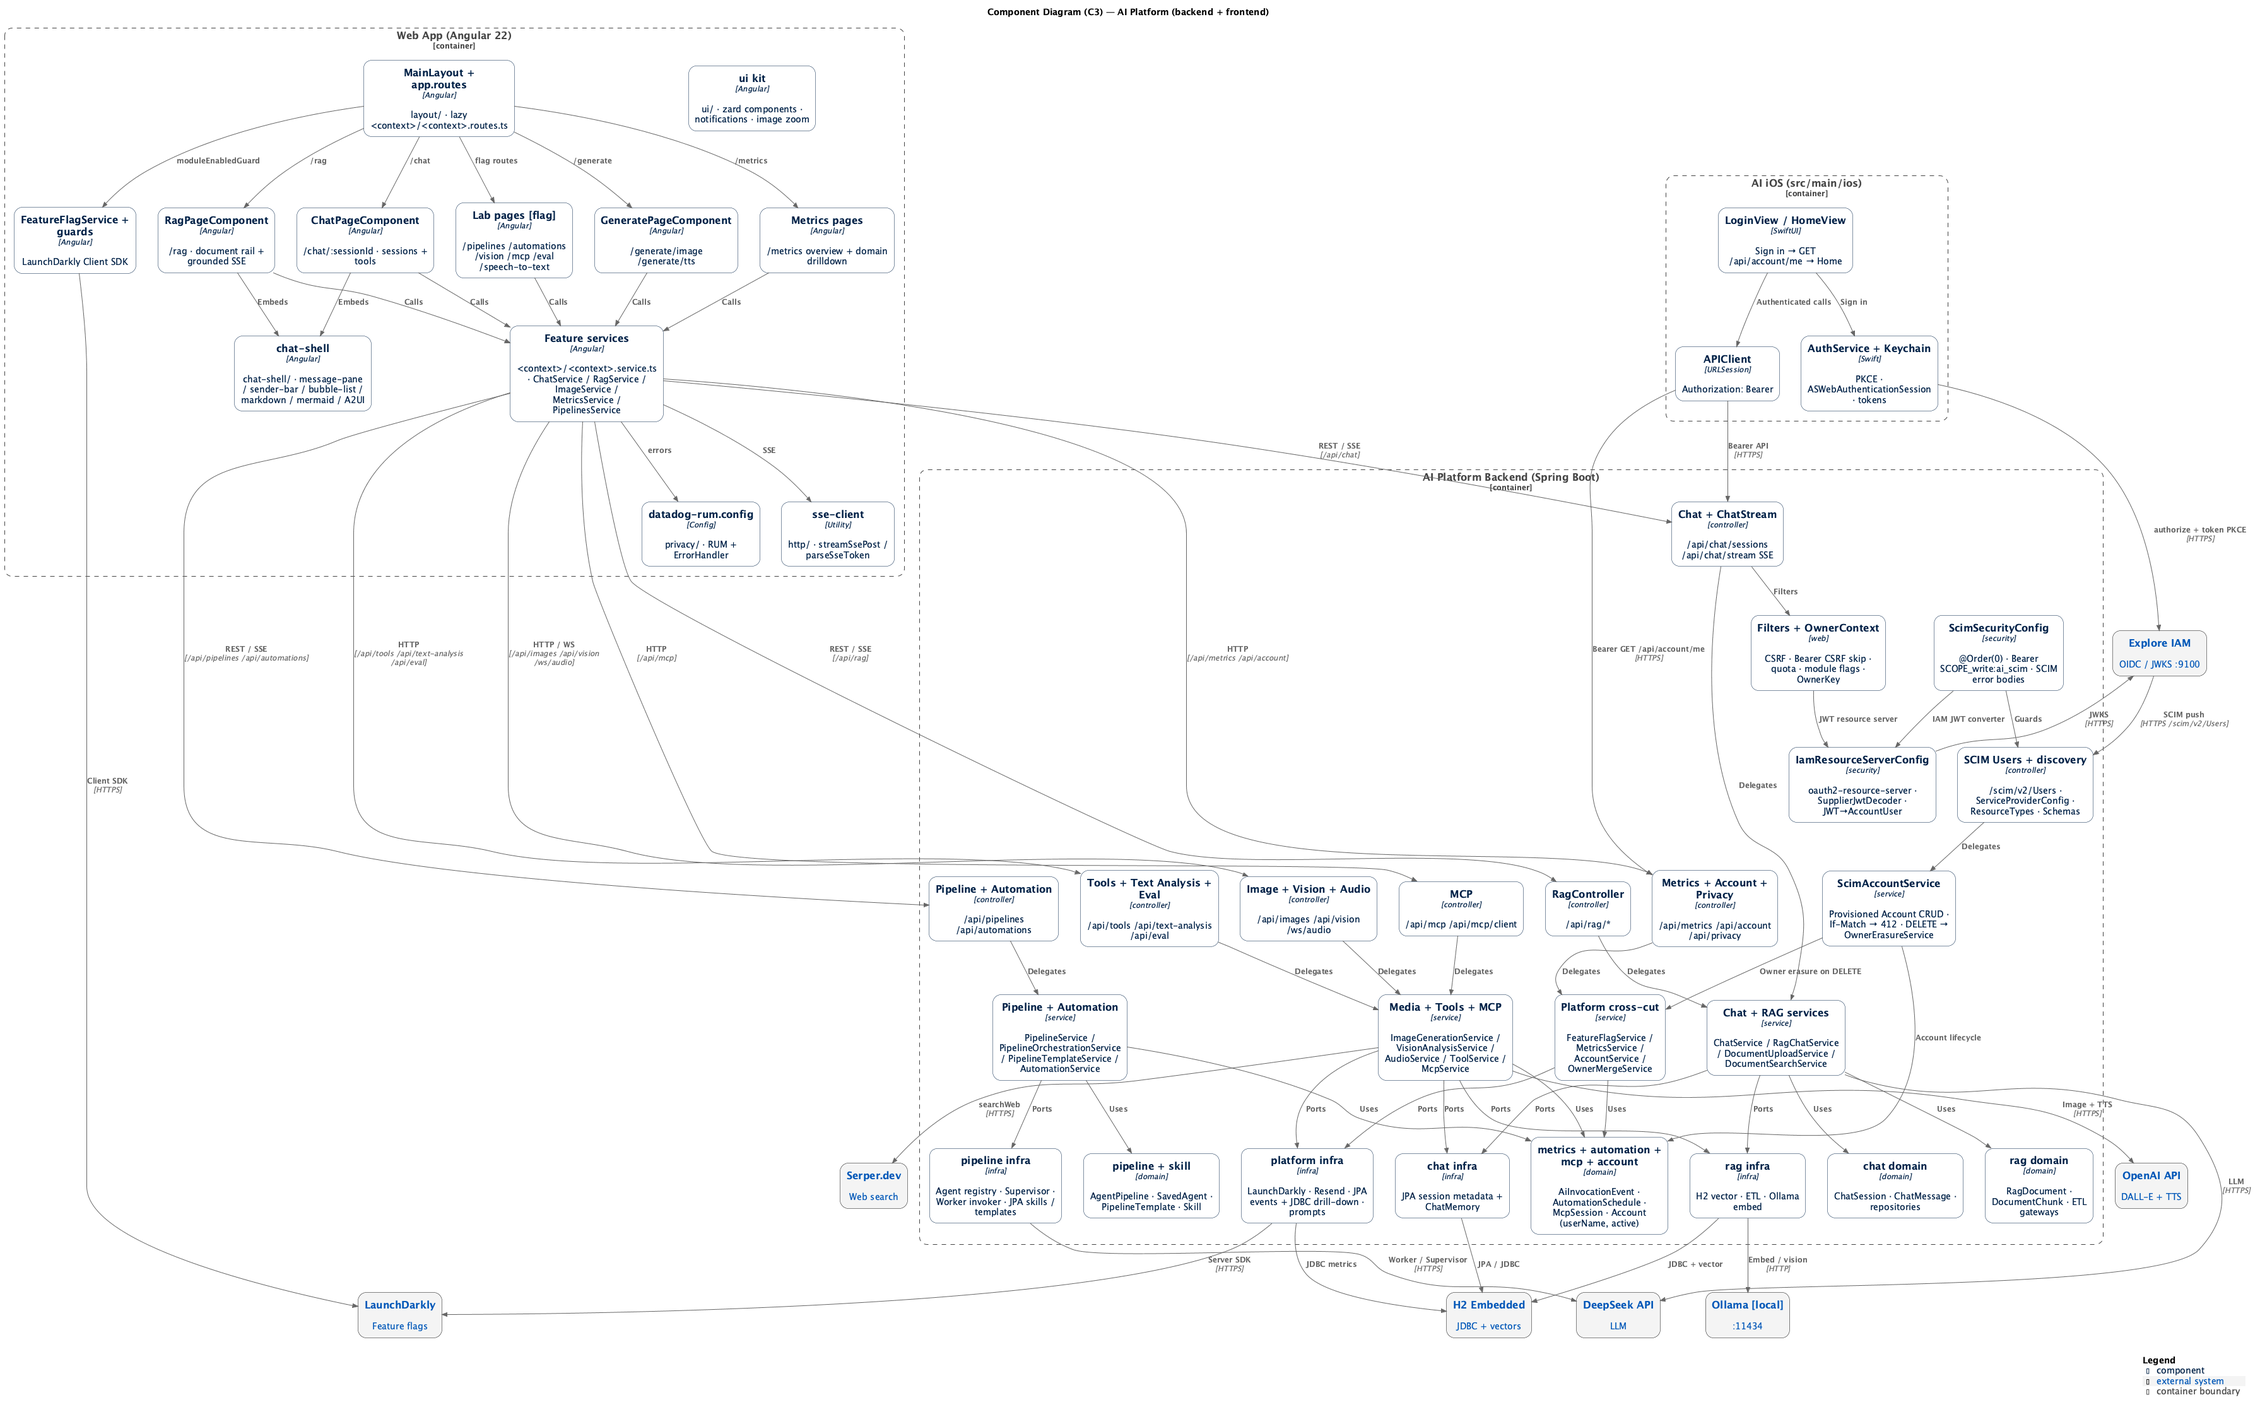
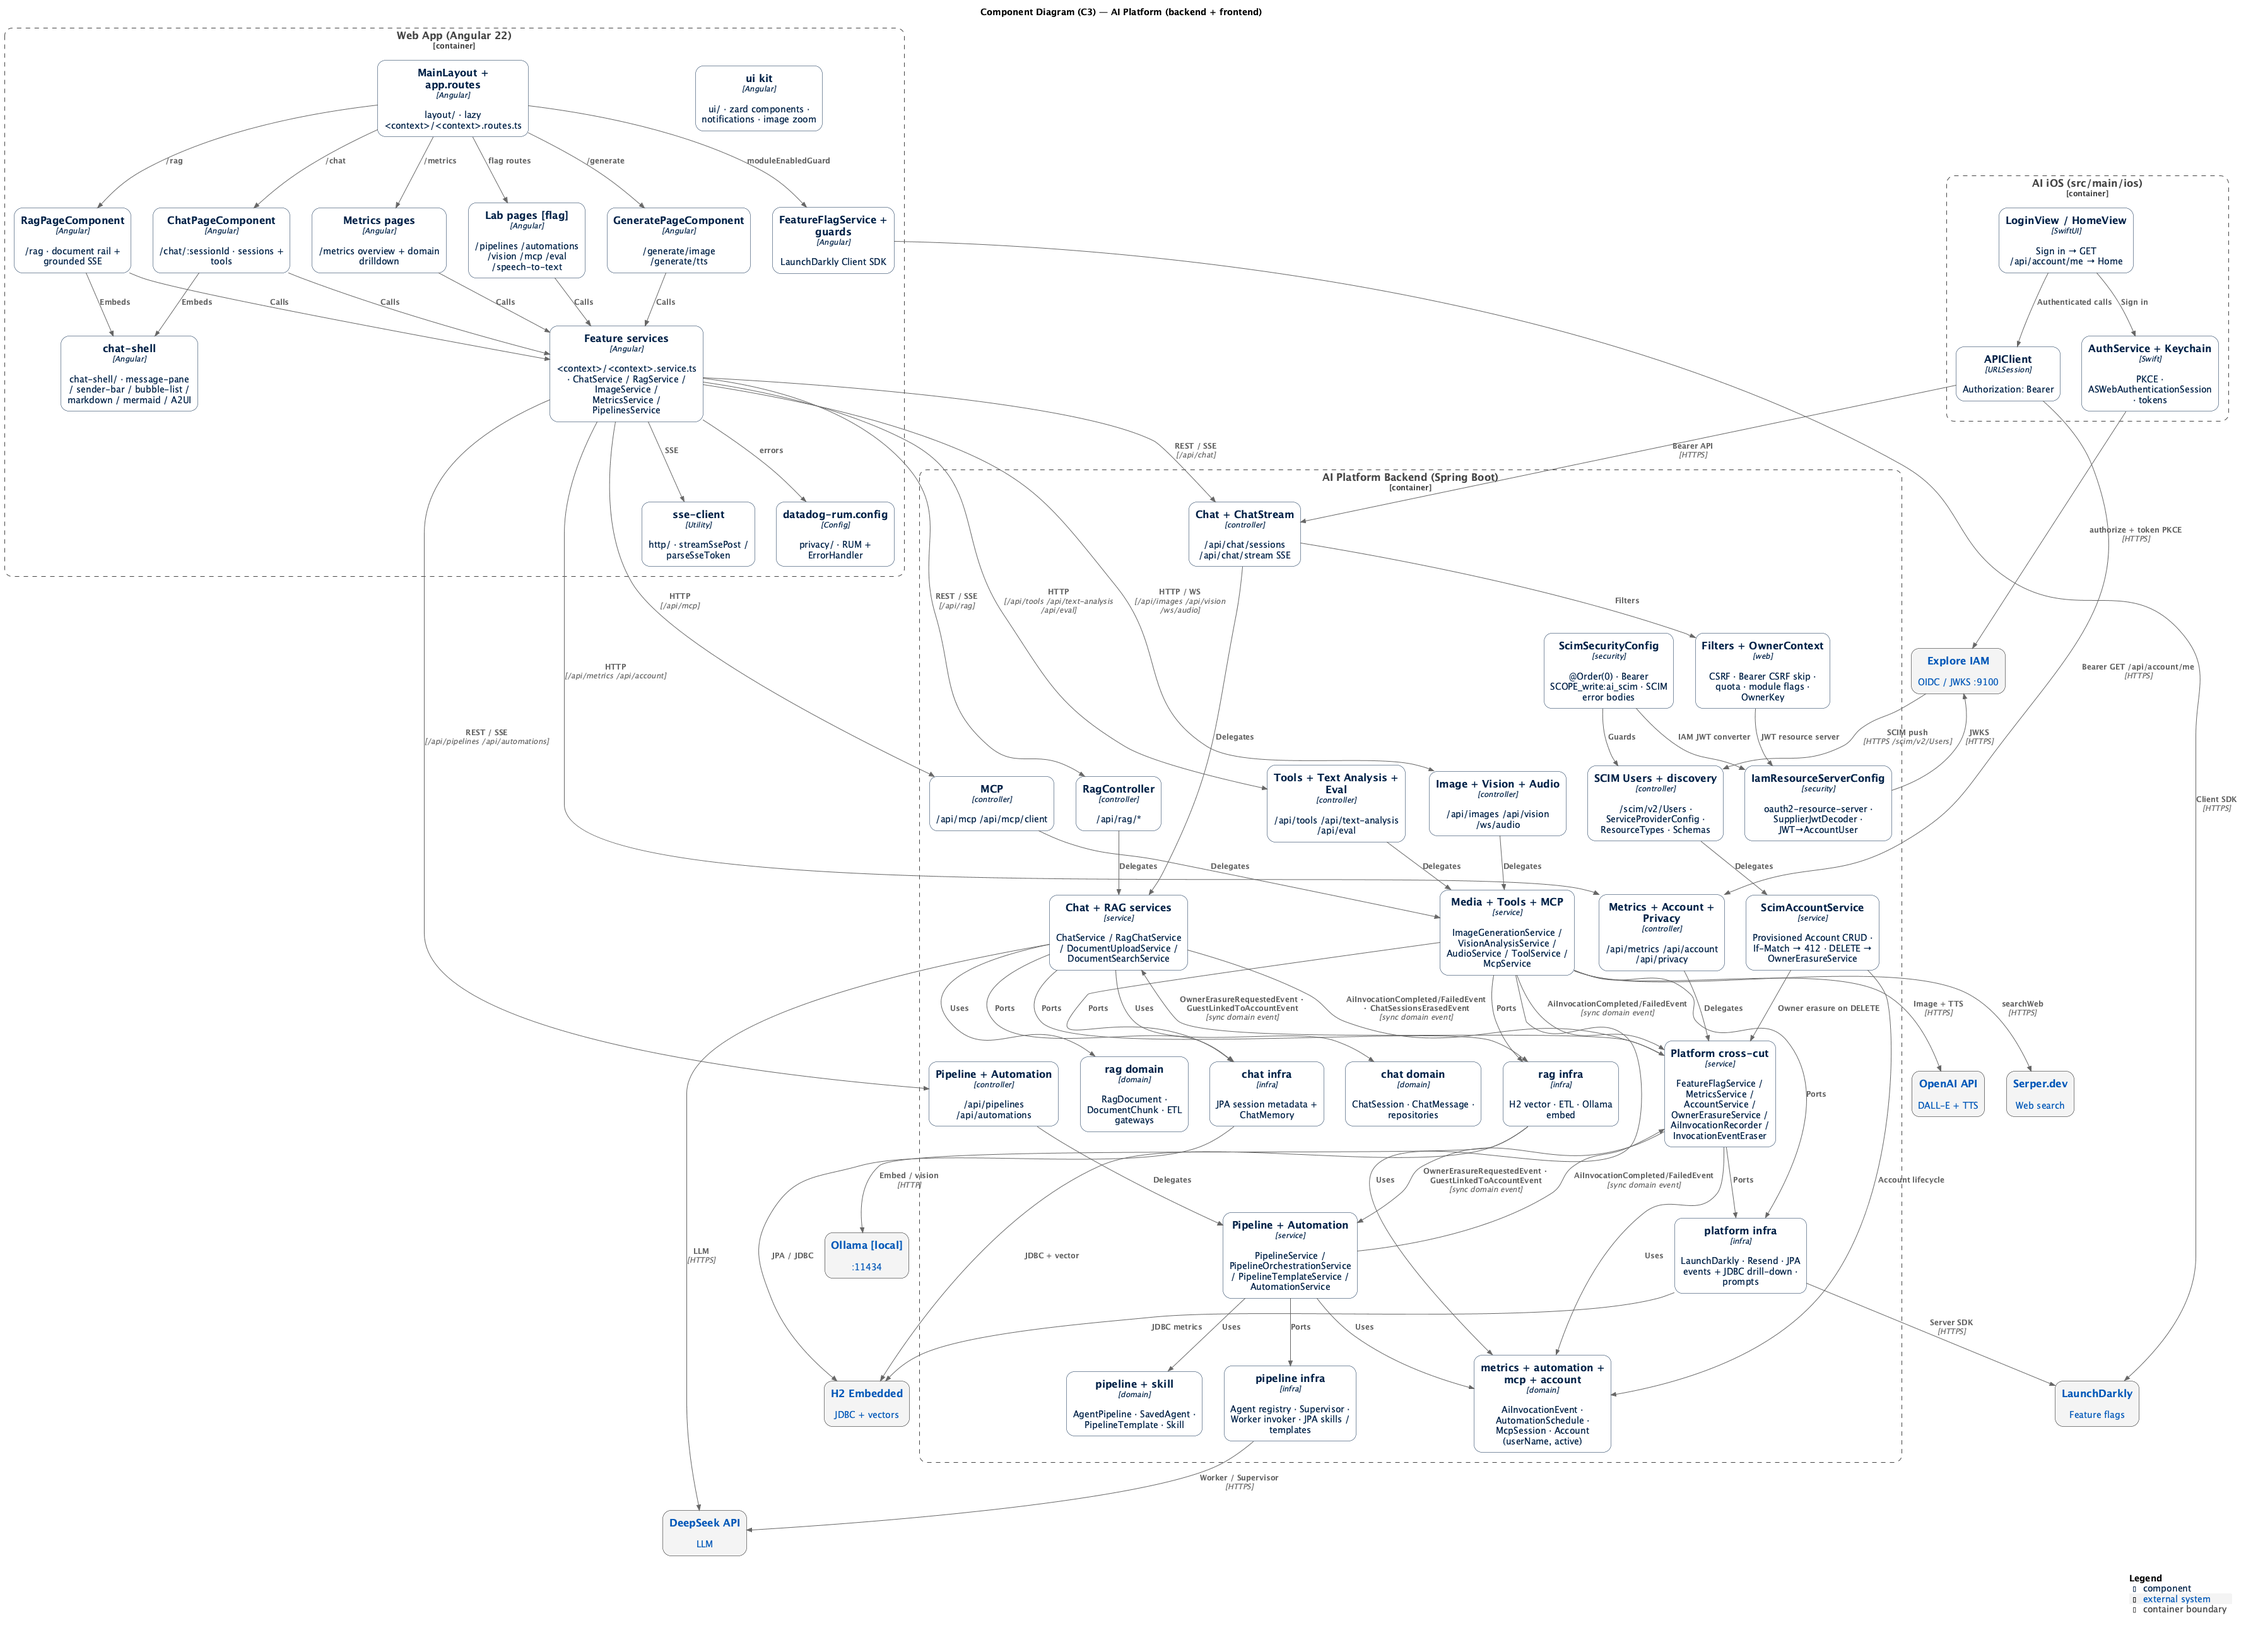
Show event-driven erasure and metrics in C4 (#664)
The component and SCIM diagrams still showed the account module
erasing every table itself and the AI features calling the invocation
recorder. They now show the domain events between modules, the story
map records that erasure and sign-in merge cover every feature, and
an ArchUnit rule keeps chat, RAG, pipeline, tools and vision from
depending on metrics again.

References:
- https://c4model.com/diagrams/component
- https://c4model.com/diagrams/dynamic
- https://www.archunit.org/userguide/html/000_Index.html

diff --git a/ai/src/test/java/com/ai/common/ArchitectureRulesTest.java b/ai/src/test/java/com/ai/common/ArchitectureRulesTest.java
@@ -37,4 +37,21 @@ class ArchitectureRulesTest {
         .resideInAPackage("com.ai..infra..")
         .check(CLASSES);
   }
+
+  @Test
+  @DisplayName("should keep AI features unaware of metrics when they report invocations")
+  void shouldKeepAiFeaturesUnawareOfMetricsWhenTheyReportInvocations() {
+    ArchRuleDefinition.noClasses()
+        .that()
+        .resideInAnyPackage(
+            "com.ai.chat..",
+            "com.ai.rag..",
+            "com.ai.pipeline..",
+            "com.ai.tools..",
+            "com.ai.vision..")
+        .should()
+        .dependOnClassesThat()
+        .resideInAPackage("com.ai.metrics..")
+        .check(CLASSES);
+  }
 }

diff --git a/ai/docs/product-owner/User-Story-Map.md b/ai/docs/product-owner/User-Story-Map.md
@@ -97,7 +97,7 @@ journey
 |------------|------------|------------|------|-----|------------|-------------|--------|
 | [US-01](./user-stories/E1-chat-session.md#us-01-ai-对话) AI 对话 | [US-04](./user-stories/E2-privacy-isolation.md#us-04-按浏览器隔离聊天会话) 浏览器隔离 | [US-06](./user-stories/E3-rag-vision.md#us-06-rag-知识问答) RAG | [US-09](./user-stories/E4-media.md#us-09-图像生成) 图像生成 | [US-12](./user-stories/E5-mcp-tools.md#us-12-mcp-工具调用) MCP | [US-13](./user-stories/E6-eval-metrics.md#us-13-chat-质量评估) Eval | [US-15](./user-stories/E7-multi-agent.md#us-15-multi-agent-pipeline-工作台) Pipeline | [US-30](./user-stories/E10-skills.md#us-30-管理可复用-skills) 管理 Skills |
 | [US-02](./user-stories/E1-chat-session.md#us-02-provider--model-选择) Provider/Model | [US-05](./user-stories/E2-privacy-isolation.md#us-05-欧盟隐私告知同意与擦除控制) 隐私控制 / [US-05b](./user-stories/E2-privacy-isolation.md#us-05b-政策中转页与法律文档) 政策文档 | [US-07](./user-stories/E3-rag-vision.md#us-07-vision-多模态-rag) Vision RAG | [US-10](./user-stories/E4-media.md#us-10-语音合成-tts) TTS | | [US-14](./user-stories/E6-eval-metrics.md#us-14-ai-指标看板) Metrics / [US-36](./user-stories/E6-eval-metrics.md#us-36-lab-与隐私页跟随界面语言) 界面语言覆盖 | [US-16](./user-stories/E7-multi-agent.md#us-16-企业工作流模版内置--可自定义) 工作流模版 | [US-31](./user-stories/E10-skills.md#us-31-在聊天中应用-skills) 聊天应用 / [US-35](./user-stories/E10-skills.md#us-35-工作台页布局与-metrics-一致) 布局对齐 Metrics |
-| [US-03](./user-stories/E1-chat-session.md#us-03-多轮对话与自动标题) 多轮与标题 | | [US-08](./user-stories/E3-rag-vision.md#us-08-图像分析独立) 图像分析 | [US-11](./user-stories/E4-media.md#us-11-流式-asr-语音识别) ASR / [US-11b](./user-stories/E4-media.md#us-11b-原生-voice-conversationios) Voice Conversation iOS | | | [US-17](./user-stories/E7-multi-agent.md#us-17-企业研判标准化输出) 标准化输出 / [US-18](./user-stories/E7-multi-agent.md#us-18-消费-agent-模版目录) 画布 Worker 目录 | |
+| [US-03](./user-stories/E1-chat-session.md#us-03-多轮对话与自动标题) 多轮与标题 | [US-39](./user-stories/E2-privacy-isolation.md#us-39-擦除与登录合并覆盖全部功能数据) 擦除与合并全覆盖 | [US-08](./user-stories/E3-rag-vision.md#us-08-图像分析独立) 图像分析 | [US-11](./user-stories/E4-media.md#us-11-流式-asr-语音识别) ASR / [US-11b](./user-stories/E4-media.md#us-11b-原生-voice-conversationios) Voice Conversation iOS | | | [US-17](./user-stories/E7-multi-agent.md#us-17-企业研判标准化输出) 标准化输出 / [US-18](./user-stories/E7-multi-agent.md#us-18-消费-agent-模版目录) 画布 Worker 目录 | |
 | [US-03b](./user-stories/E1-chat-session.md#us-03b-会话地址与切换加载) 会话地址与切换加载 | | | | | | | |
 | [US-03c](./user-stories/E1-chat-session.md#us-03c-聊天中的结构图) 聊天结构图 | | | | | | | |
 | [US-03d](./user-stories/E1-chat-session.md#us-03d-聊天中的丰富数据图) 丰富数据图 | | | | | | | |
@@ -141,7 +141,7 @@ journey
 | Epic | 文件 | 故事 | 状态 |
 |------|------|------|------|
 | E1 对话与会话 | [E1-chat-session.md](./user-stories/E1-chat-session.md) | US-01 – US-03d | 已实现（US-03d 进行中） |
-| E2 隐私与隔离 | [E2-privacy-isolation.md](./user-stories/E2-privacy-isolation.md) | US-04 – US-05 | 已实现 |
+| E2 隐私与隔离 | [E2-privacy-isolation.md](./user-stories/E2-privacy-isolation.md) | US-04 – US-05b, US-39 | 已实现 |
 | E3 RAG 与视觉 | [E3-rag-vision.md](./user-stories/E3-rag-vision.md) | US-06 – US-08 | 已实现 |
 | E4 媒体 | [E4-media.md](./user-stories/E4-media.md) | US-09 – US-11 | 已实现 |
 | E5 MCP | [E5-mcp-tools.md](./user-stories/E5-mcp-tools.md) | US-12 | 已实现 |

diff --git a/ai/docs/product-owner/user-stories/E2-privacy-isolation.md b/ai/docs/product-owner/user-stories/E2-privacy-isolation.md
@@ -87,3 +87,36 @@
 ### 状态
 
 已实现（Jira: [AI-339](https://felixzhu.atlassian.net/browse/AI-339)）
+
+---
+
+## US-39 擦除与登录合并覆盖全部功能数据
+
+**As a** 使用 ExploreAI 的访客或已登录用户  
+**I want** 擦除数据或登录合并时，每个功能里属于我的数据都被一起处理  
+**So that** 新增功能不会留下漏删或漏合并的数据
+
+### 验收标准
+
+1. **Scenario** 擦除不留残余
+   **GIVEN** 访客在聊天、文档、Skills、工作流、自动化中都有数据，且产生过调用指标  
+   **WHEN** 访客擦除本浏览器数据，或 explore-iam 通过 SCIM 删除该用户  
+   **THEN** 上述功能中该所有者的数据全部被删除  
+   **AND** 其他访客的数据不受影响
+
+2. **Scenario** 登录合并与关联同生共死
+   **GIVEN** 访客在浏览器中已有数据  
+   **WHEN** 访客登录并关联账号  
+   **THEN** 浏览器关联与全部数据合并在同一事务中完成  
+   **AND** 合并失败时关联也不会生效
+
+3. **Scenario** 功能自行处理自己的数据
+   **GIVEN** 账号模块发出擦除或合并的领域事件  
+   **WHEN** 各功能模块处理该事件  
+   **THEN** 每个模块只删除或迁移自己的表  
+   **AND** 聊天、RAG、工作流、工具、视觉代码不依赖指标模块
+
+### 状态
+
+已实现
+
